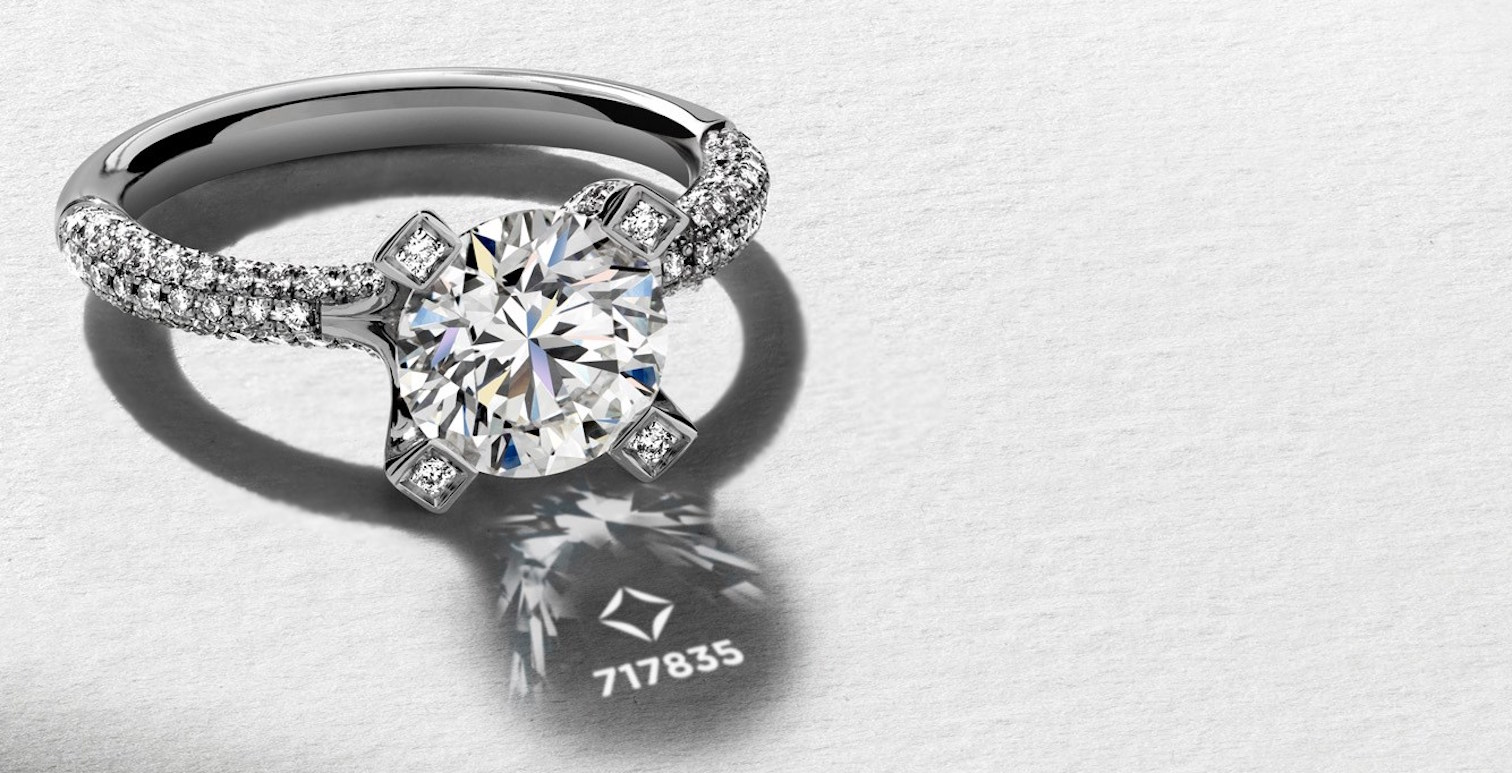
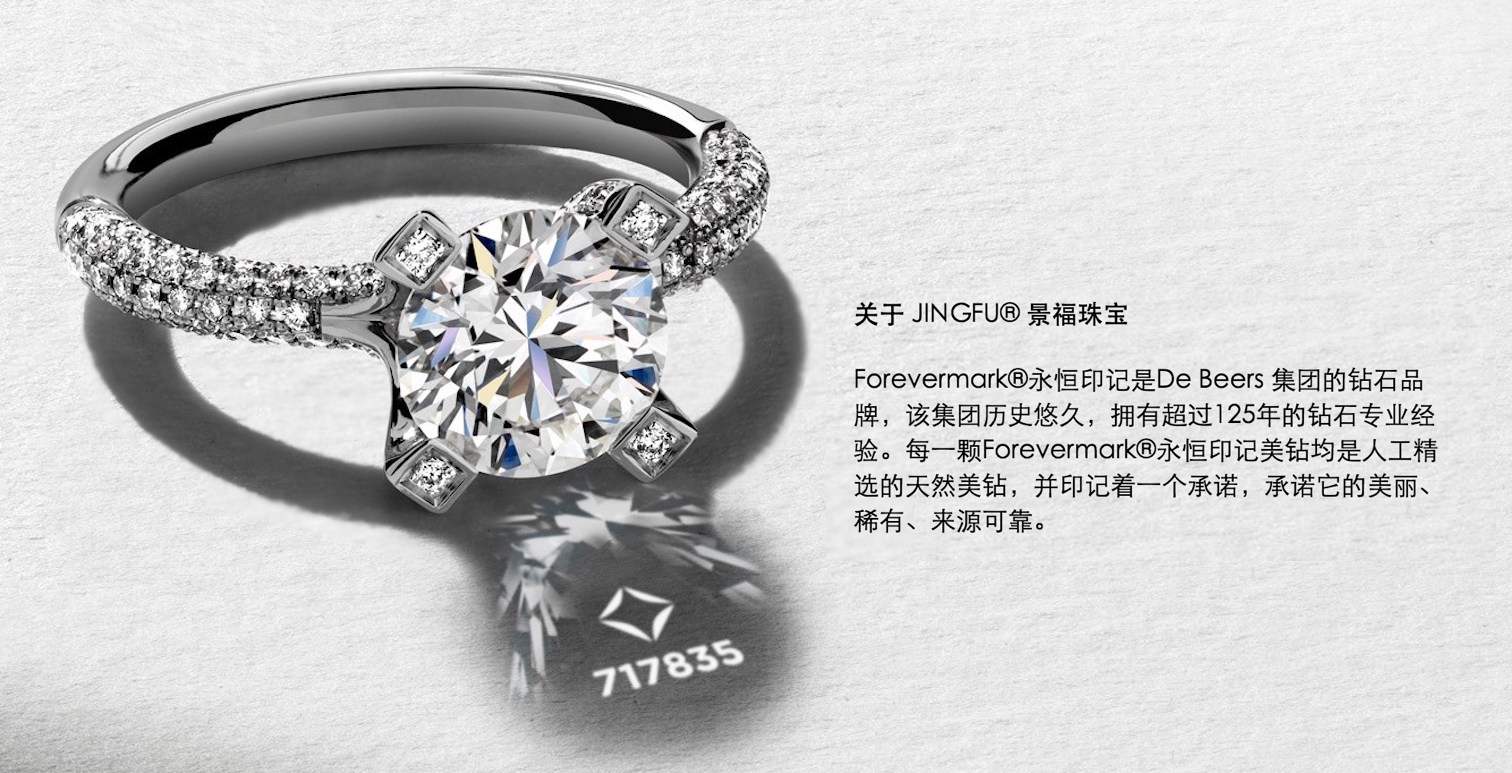
first.3

Changed region(s): [[0.5595, 0.4657, 0.9636, 0.6831], [0.5595, 0.3726, 0.746, 0.4347]]

diff --git a/views/client/index.html b/views/client/index.html
@@ -1,18 +1,6 @@
     <!-- Slideshow 4 -->
   <div id="index-header">
-      <img src="/img/big-diamond.jpg" width="100%" alt="">
-    <div class="container-fluid font">
-      <div class="row">
-        <div class="col-md-6 col-sm-6 "></div>
-        <div class="col-md-1 col-sm-1"></div>
-        <div class="col-md-4 col-sm-4 col-xs-12">
-          <p><b><b><big class="index-header-title">关于 JINGFU® 景福珠宝</big></b></b><br><br>
-
-<big class="index-header-desc">Forevermark®永恒印记是De Beers 集团的钻石品牌，该集团历史悠久，拥有超过125年的钻石专业经验。每一颗Forevermark®永恒印记美钻均是人工精选的天然美钻，并印记着一个承诺，承诺它的美丽、稀有、来源可靠。</big></p>
-        </div>
-      </div>
-    </div>
-
+      <img src="/img/big-diamond.jpg" width="100%" alt=""  style="position:relative">
   </div>
 <br><br>
 

diff --git a/public/css/app.less b/public/css/app.less
@@ -37,7 +37,7 @@
 	.top-right {
 		position: absolute;
 		right: 20px;
-		top: 30px;
+		top: 80px;
 		p {
 			color: @lc;
 			border: 1px solid #D4DDE2;
